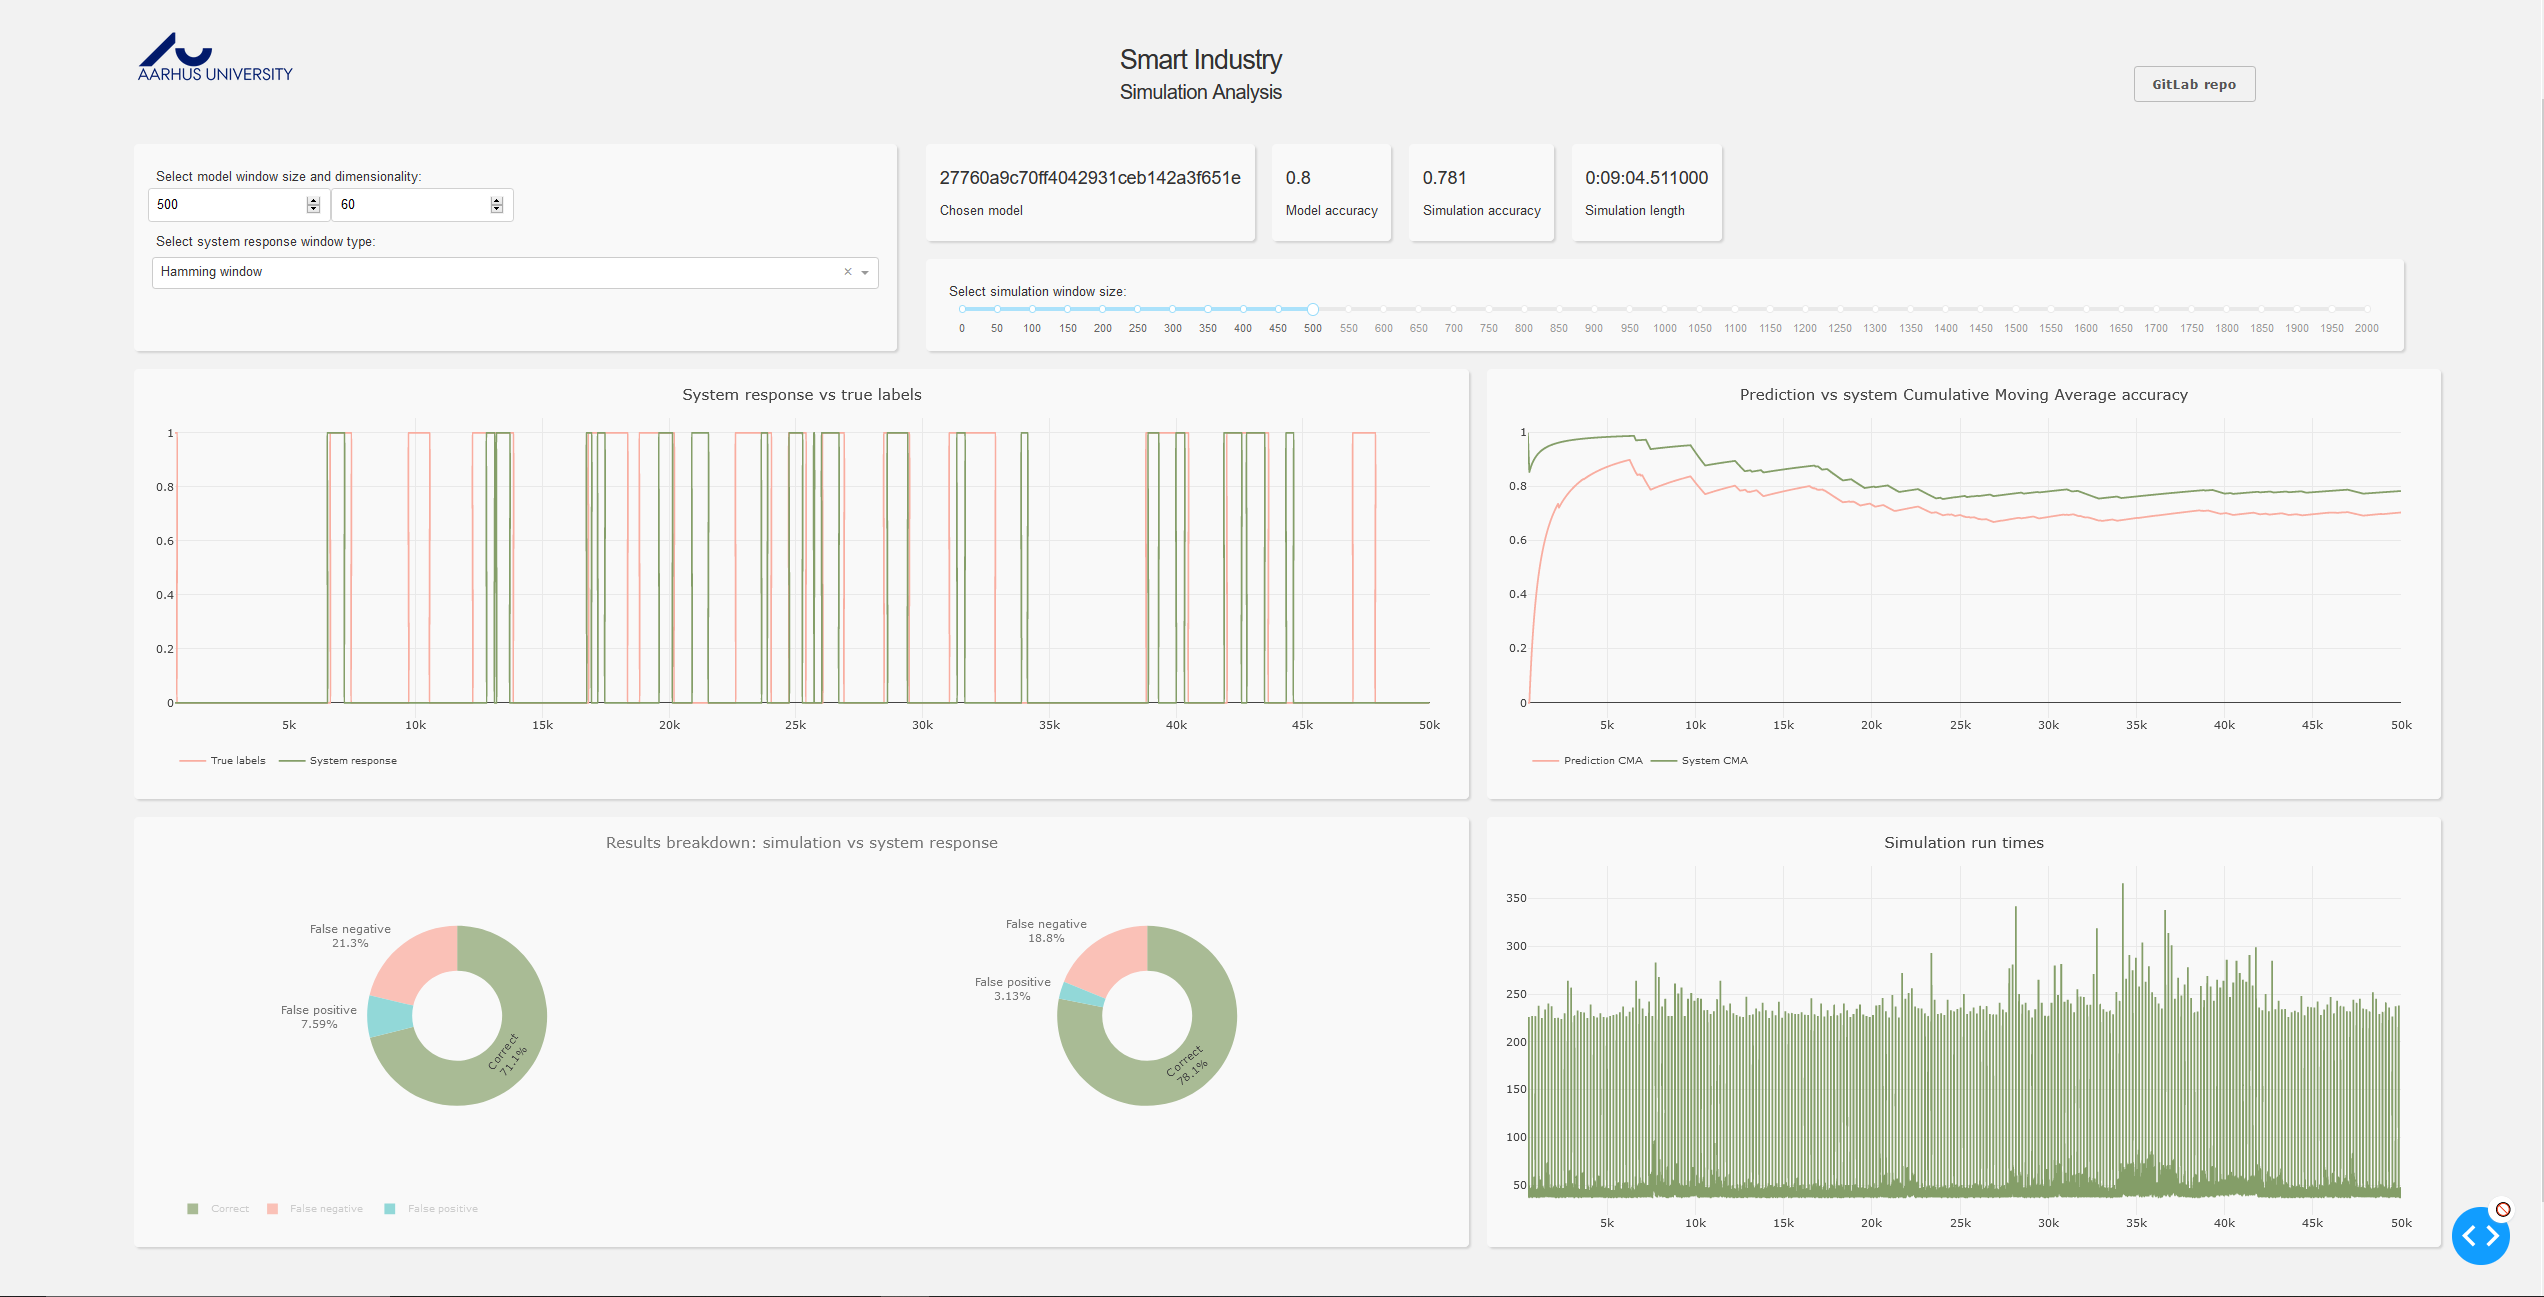
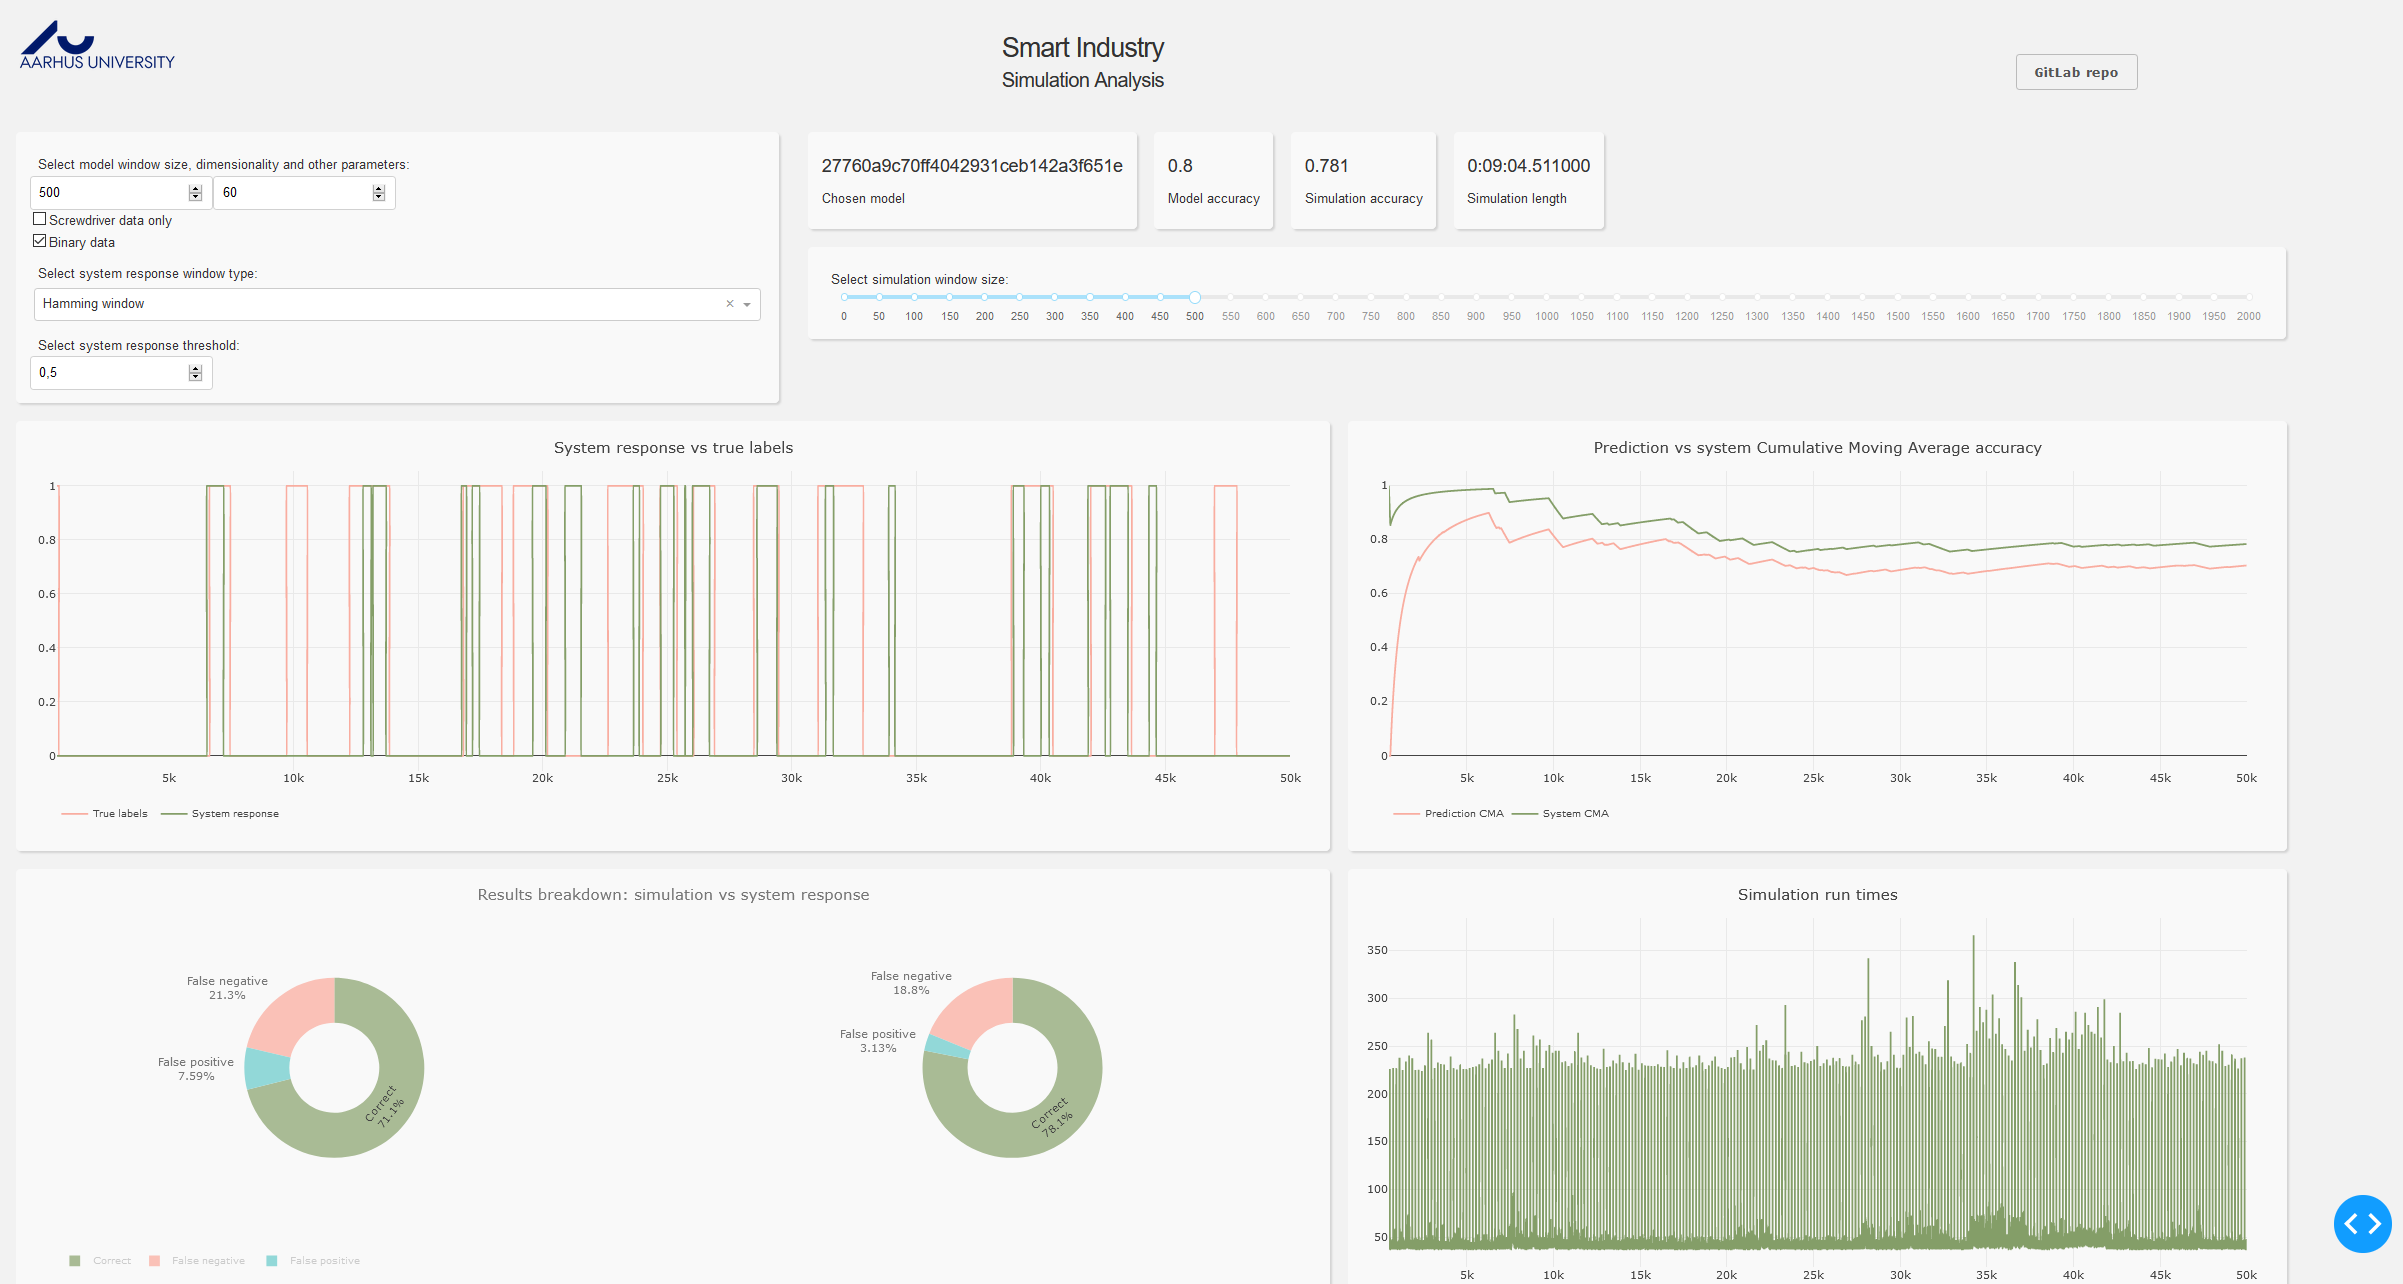
Updated documentation

diff --git a/README.md b/README.md
@@ -55,15 +55,21 @@ Copy the IP address to your web browser. The visualisation may take a minute to 
 
 [web_app]: web_app.png 
 
-In the top left section two model parameters can be chosen:
+In the top left section model parameters can be chosen:
 * Model window size - describes how many previous samples the model takes into account to predict the class of the next sample
 * Model dimensionality - describes how many dimensions the input data has. Original data in the AURSAD dataset contains 125 dimensions, any number
 below that is achieved by applying PCA dimensionality reduction method.
+* Screwdriver data only - only the screwdriver's sensors data will be used
+* Binary data - binary labels will be used (normal and anomaly)
   
 The app then proceeds to find the best model with such parameters from those available under the anomaly_simulation/Zoo/Results/runs directory.
   
 The dropdown box and slider below the model controls provide the means to manipulate the parameters of the sliding window averages 
-with the aim of creating the  most accurate system response.
+with the aim of creating the most accurate system response.
+The threshold box changes the decision threshold value.
+The system calculates the mean label value in each window, and then applies that threshold to it.
+If the value exceed the threshold, the sample on which the window is centered is assigned an anomaly label, otherwise 
+it gets a normal label.
 
 The figures are described as follows:
 * The four figures below show the results of applying these methods on the raw model predictions output.
@@ -78,9 +84,9 @@ The figures are described as follows:
 ### Performing new simulations on the included, pre-trained models
 To run a new simulation using one of the available models, run the following in your terminal
 ```bash
-/anomaly_simulation/Source> python simulation.py 
+/anomaly_simulation/Source> python simulation.py --model_dir model_name
 ```
-The simulation requires the user to give the starting symbols of the model to use in the simulation, and allows to 
+The simulation requires the user to give the starting symbols of the mo/  \el to use in the simulation, and allows to 
 set several other parameters. 
 ```bash
 /anomaly_simulation/Source>python simulation.py --help
@@ -208,7 +214,7 @@ You are about to run ResNet:train as a batch (3 trials)
 Continue? (Y/n) # Tyoe Y and press enter to commence model training
 ```
 
-This will automatically queue and train 3 separate models with different window sizes.
+This will automatically queue and train 3 separate ResNet models with different window sizes.
 
 **Adding new model construction**
 To add a new model that is compatible with the project, please inspect and recreate the pattern of the files associated with the
